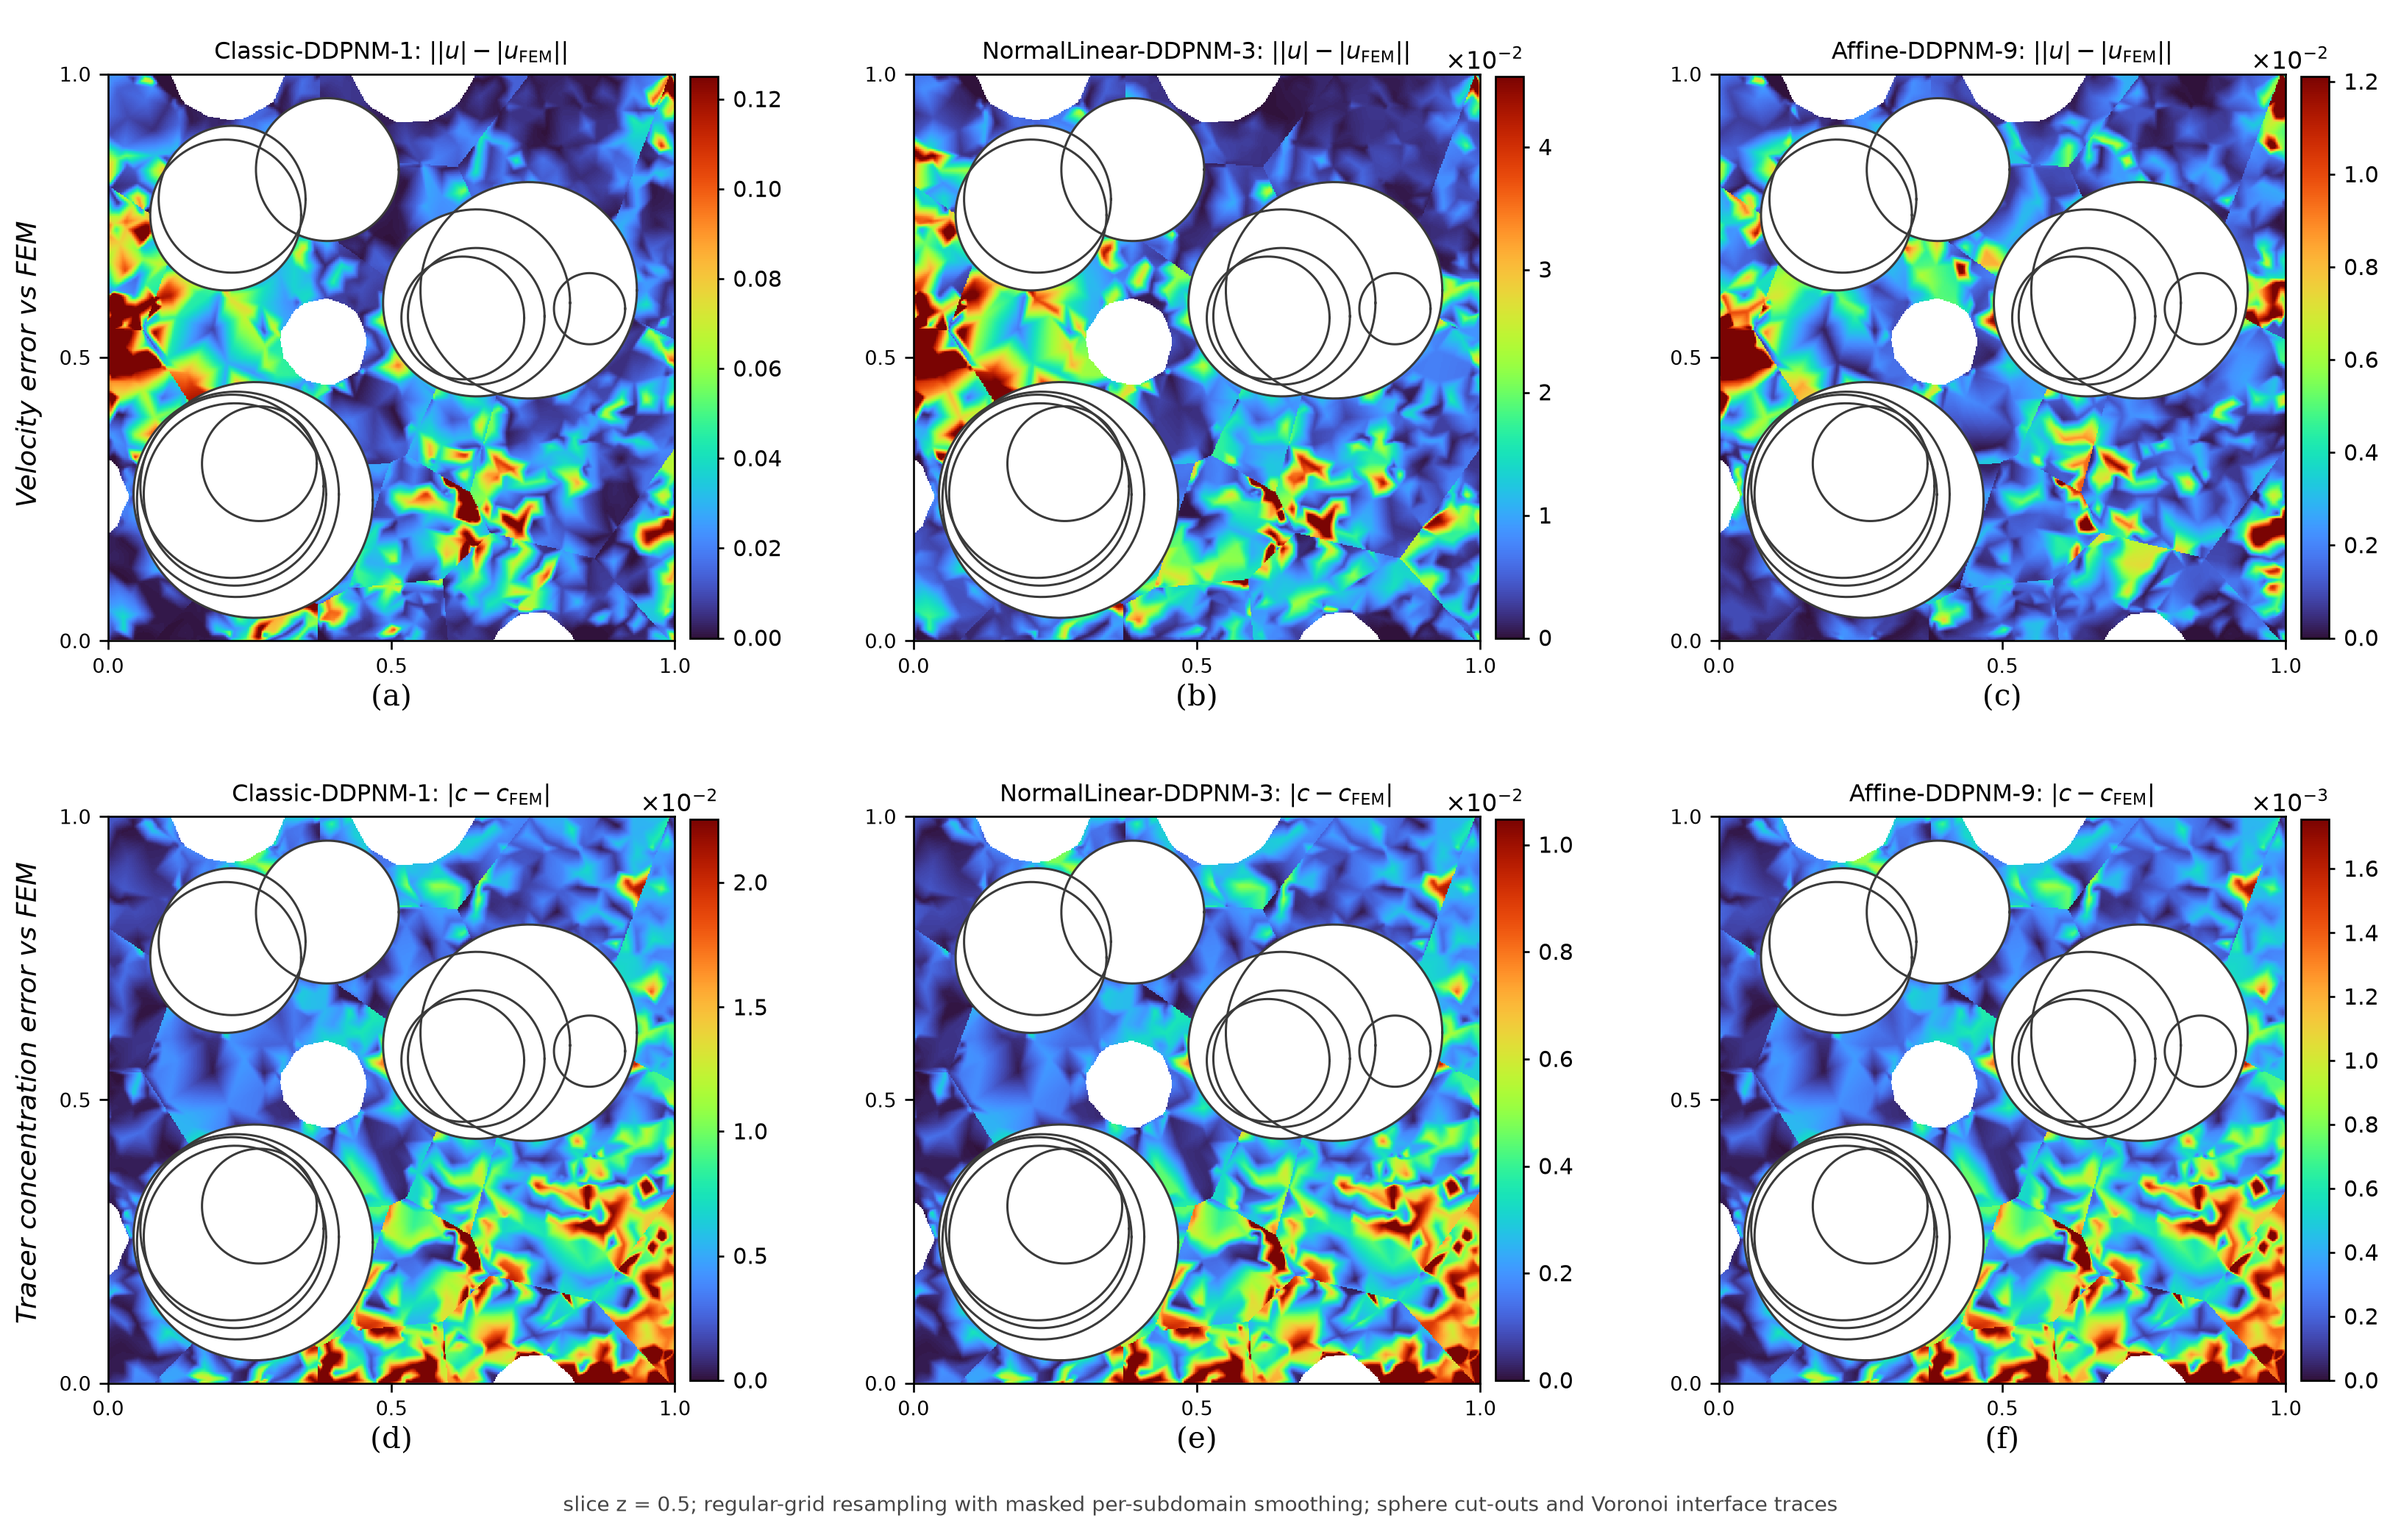
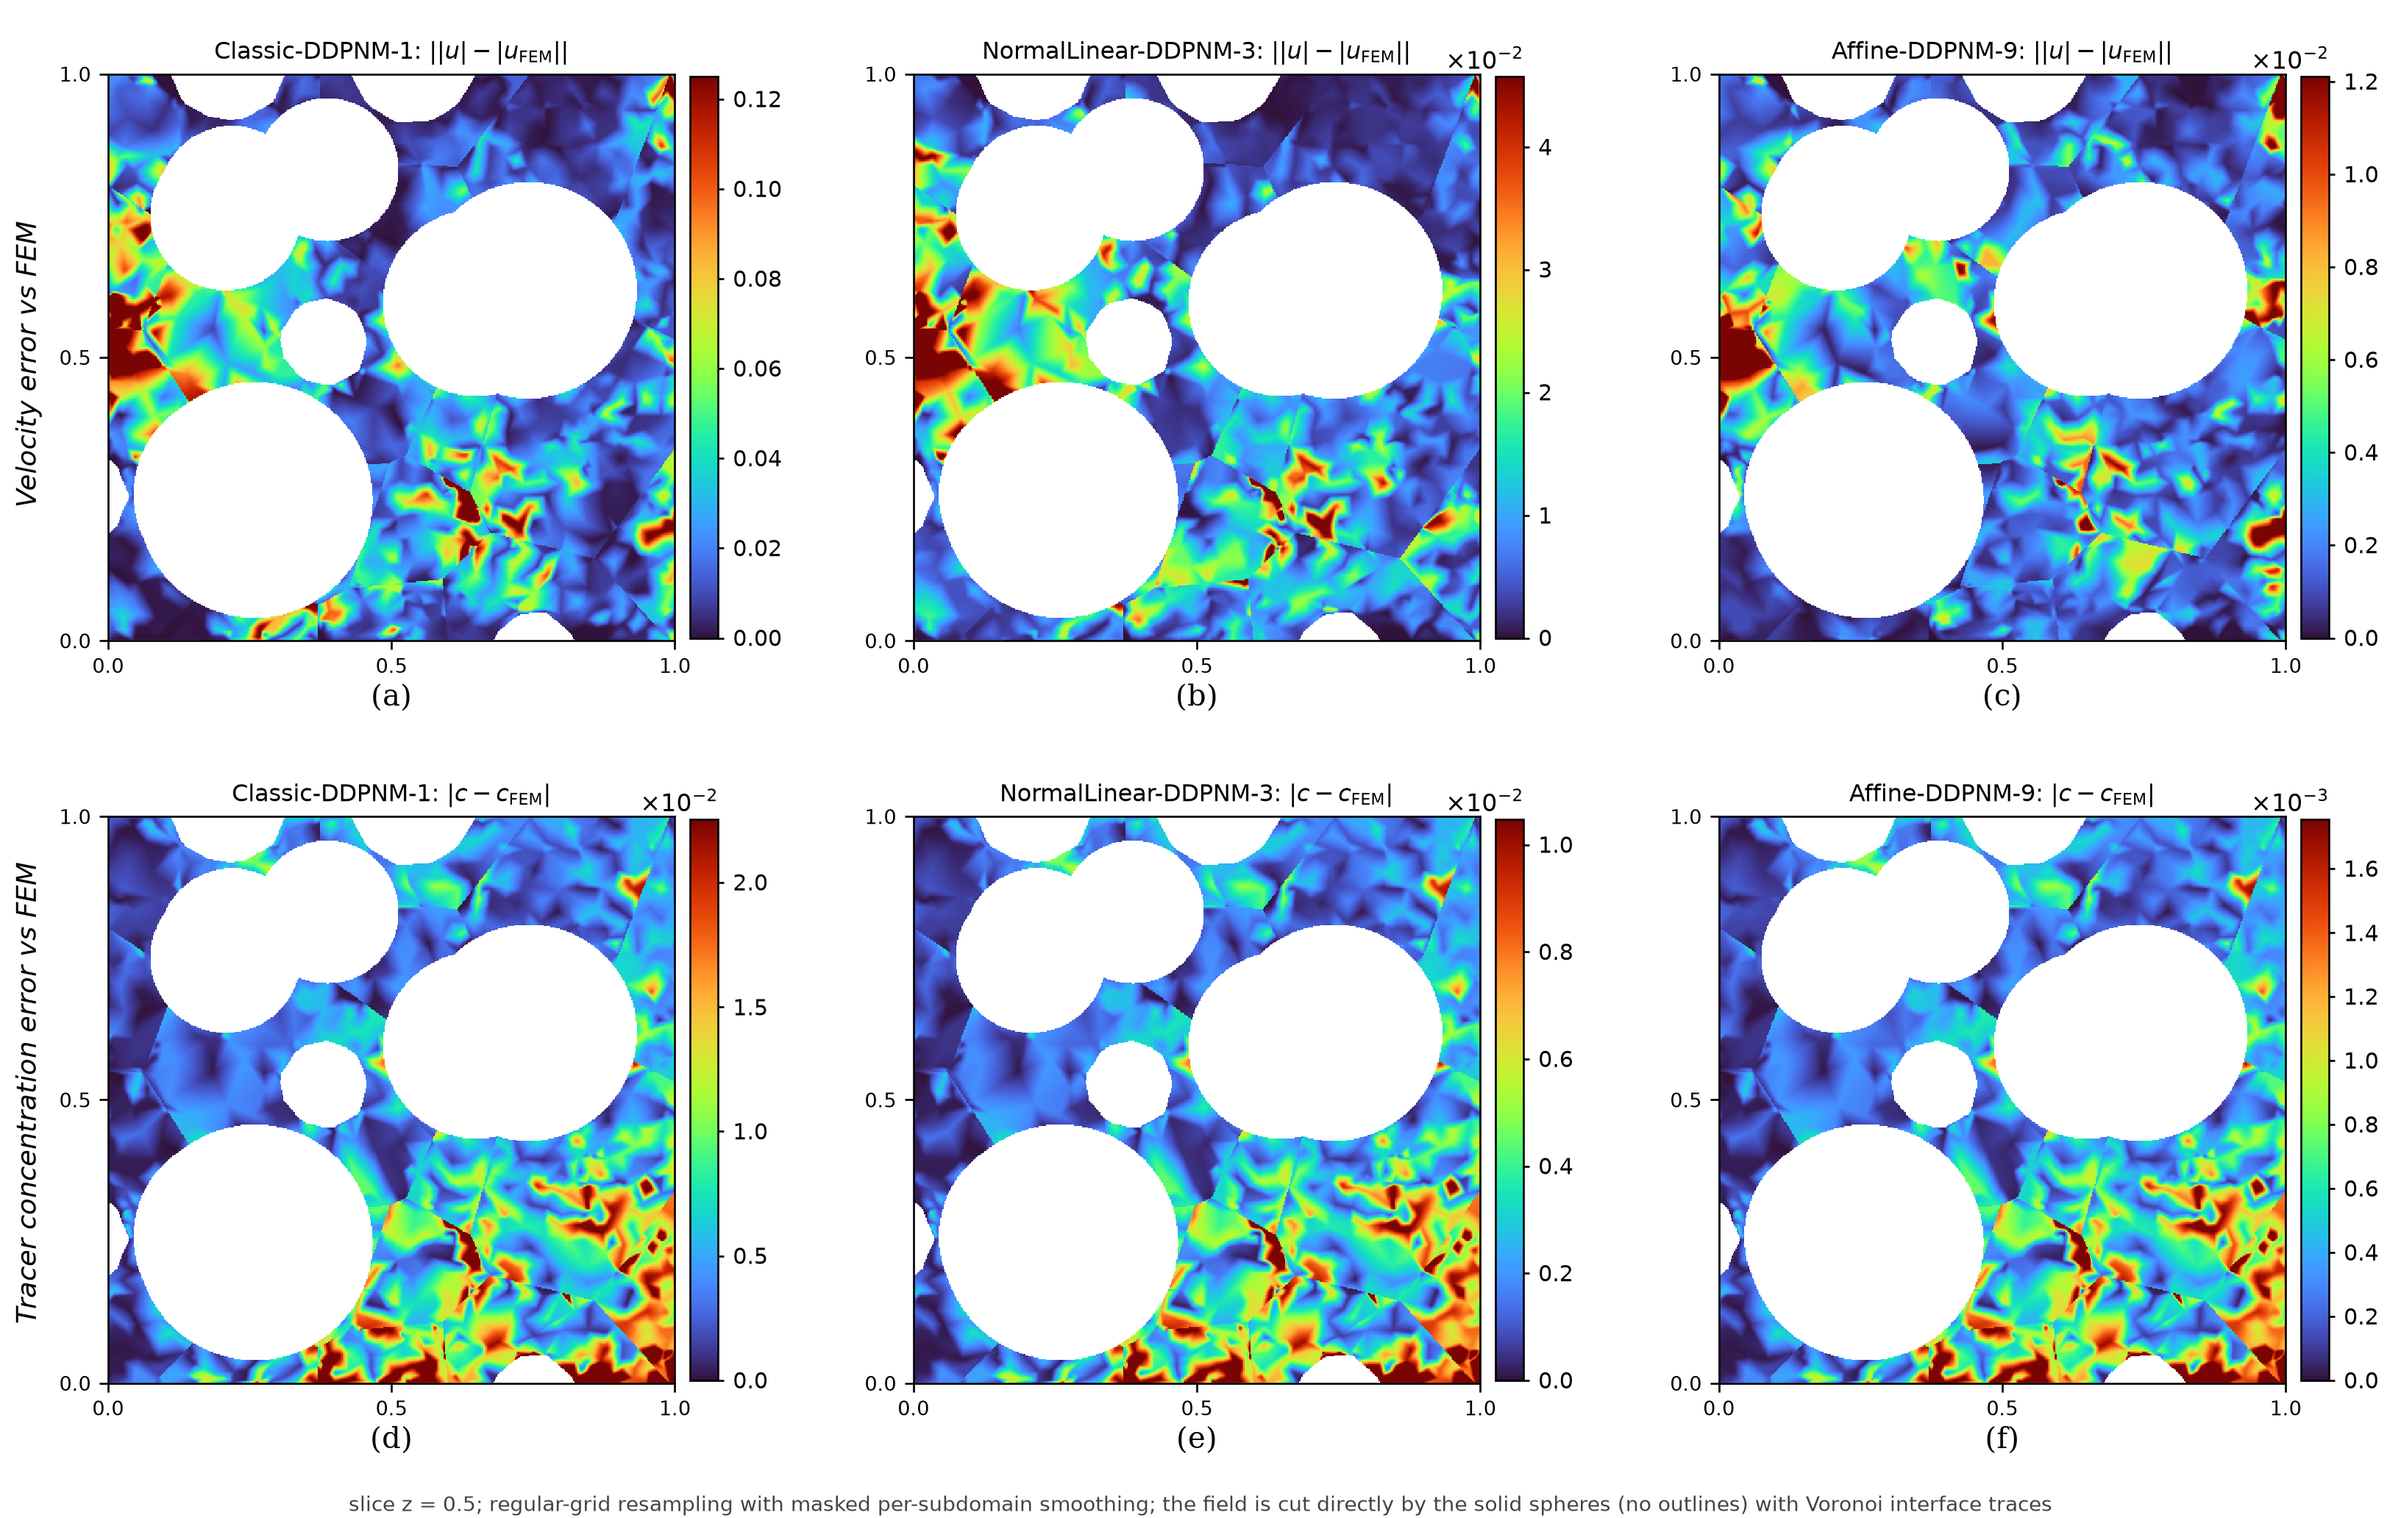
style: slice error fields cut directly by the solid spheres
Remove the hollow sphere cross-section outlines from the slice panels;
the field is already classified with the sphere interiors as holes, so
the pcolormesh NaN regions render as clean white cut-outs.  Interface
traces and independent color scales unchanged.

diff --git a/20260824/affine_ddpnm_tracer/plot_slice_errors.py b/20260824/affine_ddpnm_tracer/plot_slice_errors.py
@@ -71,20 +71,6 @@ def sci_colorbar(fig, artist, ax):
     return cb
 
 
-def slice_sphere_cuts(ax, spheres, radii, z_value, color="#404040"):
-    for center, radius in zip(spheres, radii, strict=True):
-        dz = abs(float(center[2]) - z_value)
-        if dz >= float(radius):
-            continue
-        rho = float(np.sqrt(radius**2 - dz**2))
-        circle = np.linspace(0.0, 2.0 * np.pi, 120)
-        ax.plot(
-            center[0] + rho * np.cos(circle),
-            center[1] + rho * np.sin(circle),
-            color=color, linewidth=0.9,
-        )
-
-
 def _point_in_triangle(px, py, a, b, c):
     """Barycentric-side test (true on edges), vectorized over triangles."""
     d1 = (b[:, 0] - a[:, 0]) * (py - a[:, 1]) - (b[:, 1] - a[:, 1]) * (px - a[:, 0])
@@ -302,7 +288,8 @@ def plot_slice_error_fields(data, out_dir: Path) -> None:
         ax.add_collection(
             LineCollection(boundary_segments, colors="#1f1f1f", linewidths=1.3, zorder=5)
         )
-        slice_sphere_cuts(ax, spheres, radii, Z_VALUE, color="#3a3a3a")
+        # No sphere cross-section outlines: the field is cut directly by the
+        # obstacles (NaN inside the spheres renders as clean white cut-outs).
         ax.set_aspect("equal")
         ax.set_xlim(0.0, 1.0)
         ax.set_ylim(0.0, 1.0)
@@ -326,7 +313,8 @@ def plot_slice_error_fields(data, out_dir: Path) -> None:
     )
     fig.text(
         0.5, 0.015, f"slice z = {Z_VALUE:g}; regular-grid resampling with masked "
-        "per-subdomain smoothing; sphere cut-outs and Voronoi interface traces",
+        "per-subdomain smoothing; the field is cut directly by the solid spheres "
+        "(no outlines) with Voronoi interface traces",
         ha="center", va="top", fontsize=8.5, color="#444444",
     )
     fig.savefig(out_dir / "slice_error_fields.png", dpi=240)
